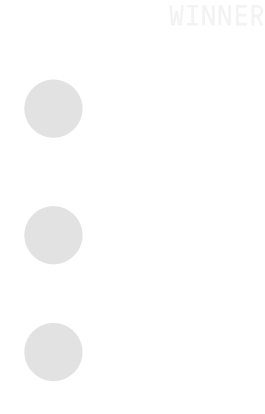
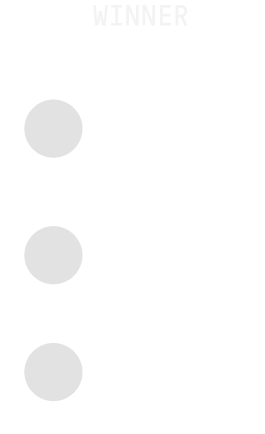
image fixes

diff --git a/src/app/PanelWinners.cpp b/src/app/PanelWinners.cpp
@@ -41,7 +41,7 @@ void PanelWinners::draw(){
     
     ofEnableBlendMode(OF_BLENDMODE_ALPHA);
     
-    assets->panelWinnersFront.draw(position.x+2, position.y+1);
+    assets->panelWinnersFront.draw(position.x+2, position.y-19);
     
     // draw players
     ofPushMatrix();
